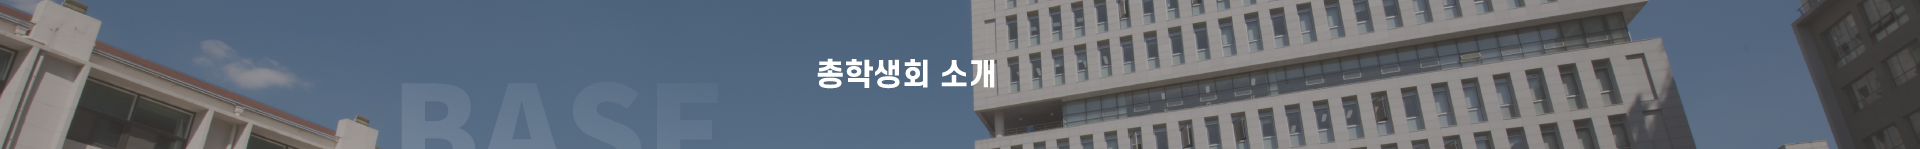
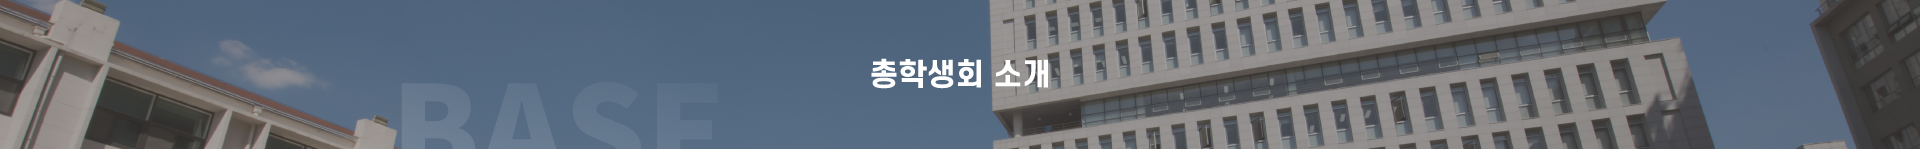
make introducepage

Changed region(s): [[0.4062, 0.0, 1.0, 1.0], [0.0, 0.0, 0.2188, 1.0]]

diff --git a/council-page/src/components/pages/introduce/Introduce_body.js b/council-page/src/components/pages/introduce/Introduce_body.js
@@ -1,9 +1,37 @@
 import React from 'react'
+import "../../../App.css";
+import Profile_img from "./images/profile.png";
+import "./Introduce.css";
+import Card from 'react-bootstrap/Card';
 
 function Introduce_body() {
-  return (
-    <div>Introduce_body</div>
-  )
+    return (
+        <>
+            <div className="Body-container">
+                <img className='profile_img' src={Profile_img} />
+            </div>
+            <div id='card-container'>
+                <Card className='card'>
+                    <Card.Title className='card-title'>안녕하십니까. 37대 총학생회 ‘BASE’ 총학생회장 지승빈, 부총학생회장 백혜린입니다.</Card.Title>
+                    <Card.Body className='card-body'>
+                        <p>다시 한번 학생대표에 자리에 설 수 있게 해주신 학우 여러분께 감사의 말씀 올립니다.<br></br>
+                        또한 추운 날씨에 고생해주신 단위별 선거운동본부와 중앙선거관리위원회 분들께도 감사드립니다.</p>
+
+                        <p>이번 선거를 통해서 많은 것을 배웠습니다. 투표율도 타 대학에 비해 상당히 높은 수치이고<br></br>
+                        유세하면서 나눠드린 리플렛도 하나하나 꼼꼼히 읽는 모습들을 보면서<br></br>
+                        학우분들의 학생회에 관한 관심도 및 열정을 느낄 수 있었습니다.</p>
+                        <p>올해 한성대학교에서는 트랙 통폐합, 과 학생회장 폐지, 학생회 구조조정 등 많은 변화가 있었습니다.<br></br>
+                        이러한 변화들은 트랙제의 단점들을 보완하고 채워나가는 과정이라고 생각합니다.<br></br>
+                        이런 변화하는 상황 속에서 많이 혼란스러워하실 것으로 예상됩니다.</p>
+
+                        <div>혼란을 바로잡고 '기본에 충실하다' 라는 슬로건과 함께 학우분들과 같이 걷는 총학생회가 되겠습니다. 감사합니다.</div>
+                    </Card.Body>
+                </Card>
+            </div>
+        </>
+    );
 }
+
+
 
 export default Introduce_body

diff --git a/council-page/src/components/pages/introduce/Introduce.css b/council-page/src/components/pages/introduce/Introduce.css
@@ -1,0 +1,76 @@
+body{
+    background-color: white;
+}
+
+#Nav_bar{
+    margin: auto;
+    align-items: center;
+    justify-content: center;
+    grid-gap: 4rem;
+    background-color: white;
+
+}
+
+.Nav_item{
+    align-items: center;
+    justify-content: center;
+    height: auto;
+    font-family: 'Noto Sans KR';
+    font-style: normal;
+    font-size: 1rem;
+    line-height: 170%;
+    color: #000000;
+}
+
+.Nav_item:hover {
+    border-bottom: 0.2rem solid black;
+    transition: all 0.2s ease-out;
+    color: #000000; 
+    font-weight: 700;
+  }
+
+  .Body-container{
+    margin: auto;
+    justify-content: center;
+    align-items: center;
+    object-fit: cover;
+    padding: 0% 30% 0% 30%;
+  }
+
+  #card-container{
+    padding: 0 20% 10%;
+  }
+
+  .card{
+    padding: 5%;
+    text-align: center;
+    background-color: #F9FAFC;
+    border-color: #F9FAFC;
+    box-shadow: 0px 4px 9px rgba(49, 50, 82, 0.2);
+border-radius: 16px;
+  }
+
+  .card-title {
+      font-family: 'S-Core Dream';
+      font-style: normal;
+      font-weight: 700;
+      font-size: 1rem;
+      line-height: 180%;
+  }
+
+  .card-body {
+      font-family: 'S-Core Dream';
+      font-style: normal;
+      font-weight: 400;
+      font-size: 1rem;
+      line-height: 180%;
+      /* or 29px */
+
+      text-align: center;
+
+      color: #000000;
+  }
+
+
+
+  

diff --git a/council-page/src/components/pages/introduce/Introduce_Navbar.js b/council-page/src/components/pages/introduce/Introduce_Navbar.js
@@ -1,8 +1,22 @@
 import React from 'react'
+import Container from 'react-bootstrap/Container';
+import Nav from 'react-bootstrap/Nav';
+import Navbar from 'react-bootstrap/Navbar';
+import "./Introduce.css";
 
 function Introduce_Navbar() {
   return (
-    <div>Introduce_Navbar</div>
+    <Navbar>
+        <Container >
+          {/* <Navbar.Brand href="#home">Navbar</Navbar.Brand> */}
+          <Nav id='Nav_bar' className="me-auto">
+            <Nav.Link className='Nav_item' href="#hello">당선사례 & 인사말</Nav.Link>
+            <Nav.Link className='Nav_item' href="#organization">조직도</Nav.Link>
+            <Nav.Link className='Nav_item' href="#rule">학생회칙</Nav.Link>
+            <Nav.Link className='Nav_item' href="#policy">정책자료집</Nav.Link>
+          </Nav>
+        </Container>
+      </Navbar>
   )
 }
 

diff --git a/council-page/src/components/pages/signin/signin.css b/council-page/src/components/pages/signin/signin.css
@@ -59,3 +59,18 @@ body{
     font-weight: 500;
     font-size: 1rem;
 }
+
+.button-style>:hover{
+    margin: auto;
+    margin-top: 7rem;
+    background-color:aqua;
+    height: 4rem;
+    width: 20rem;
+    box-shadow: 0px 2px 8px rgba(0, 0, 0, 0.15);
+    border-radius: 8px;
+    border: #2B87F2;
+    font-family: 'Noto Sans KR';
+    font-style: normal;
+    font-weight: 500;
+    font-size: 1rem;
+}

diff --git a/council-page/src/components/pages/introduce/Introduce.js b/council-page/src/components/pages/introduce/Introduce.js
@@ -3,6 +3,7 @@ import React from 'react'
 import Introduce_Banner from "./Introduce_Banner";
 import Introduce_Navbar from "./Introduce_Navbar";
 import Introduce_body from "./Introduce_body";
+import "./Introduce.css";
 
 function Introduce() {
   return (

diff --git a/council-page/src/components/pages/introduce/Introduce_Banner.js b/council-page/src/components/pages/introduce/Introduce_Banner.js
@@ -1,7 +1,8 @@
 import React from 'react'
 import "../../../App.css";
-import "./Introduce_Banner.css";
 import Intro_Banner_img from "../../../images/Intro_Banner_img.png";
+import "./Introduce.css";
+
 
 function Introduce_Banner() {
   return (

diff --git a/council-page/src/components/pages/Notice.css b/council-page/src/components/pages/Notice.css
@@ -43,6 +43,7 @@
 .noticeTitle {
     font-weight: 500;
     font-family: 'S-Core Dream';
+    line-height: 240%;
 }
 
 
